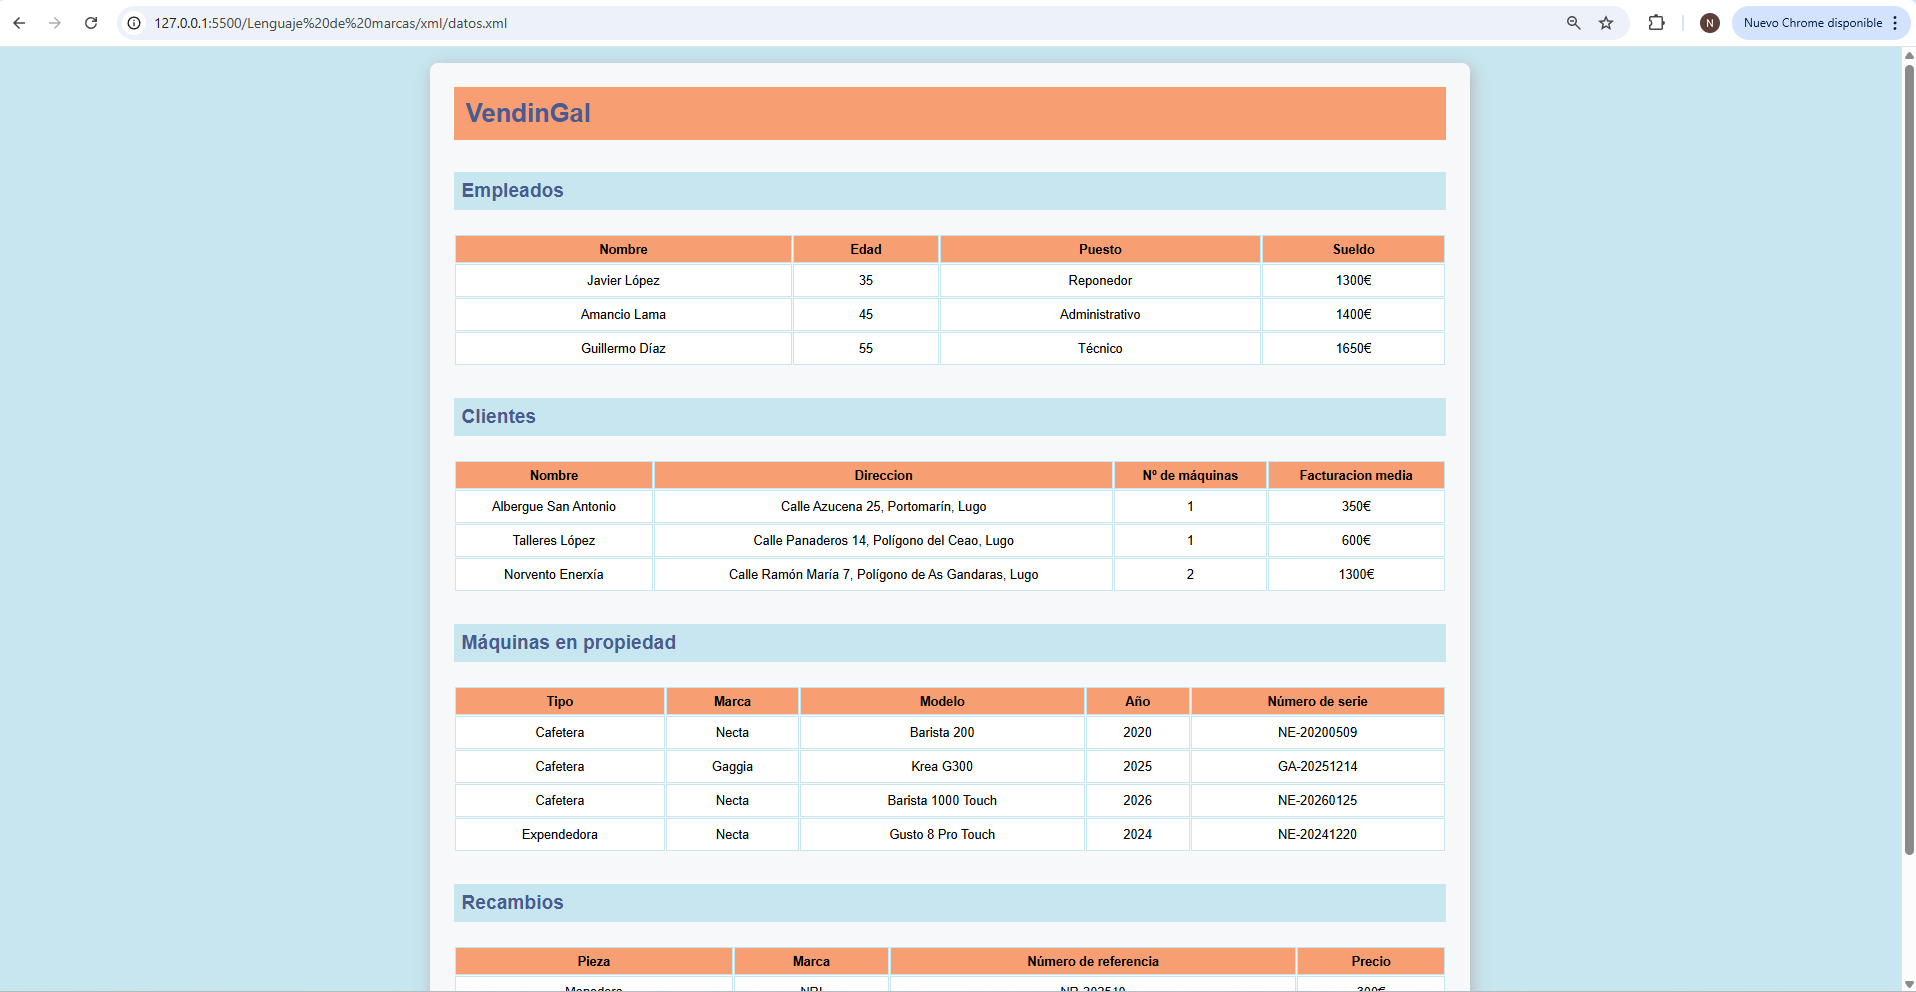
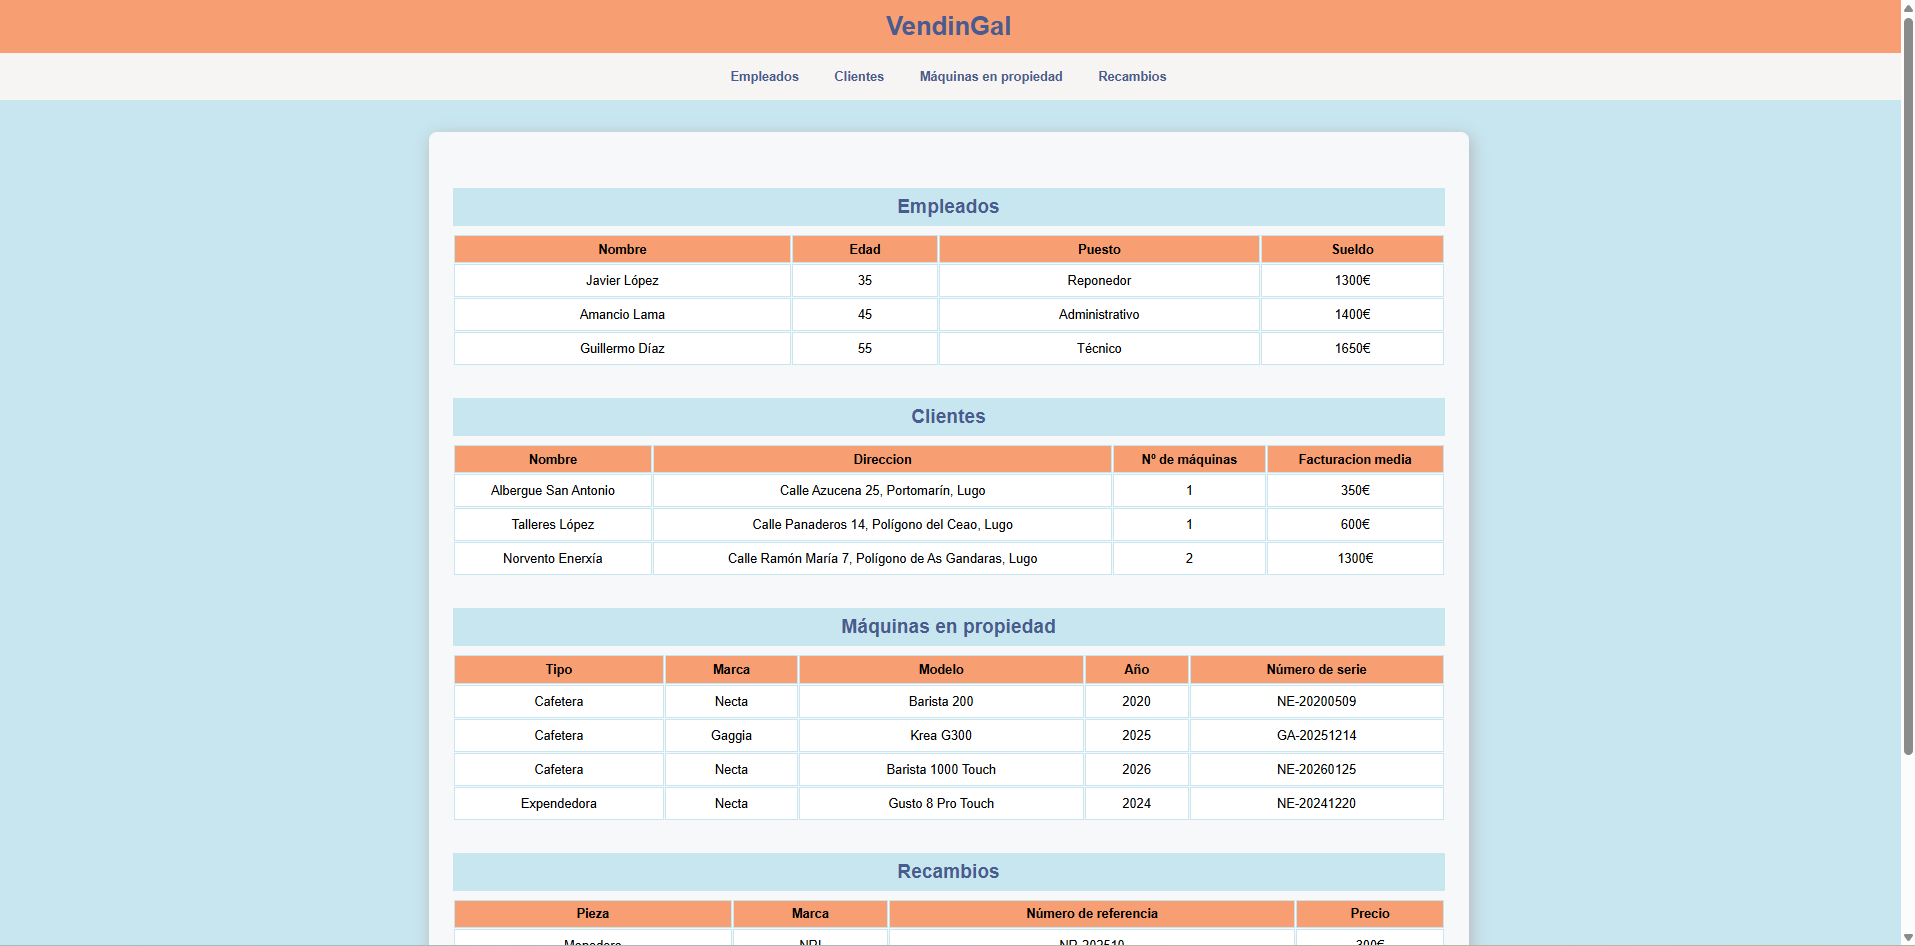
cambios en css y .md

diff --git a/Lenguaje de marcas/css/estilo.css b/Lenguaje de marcas/css/estilo.css
@@ -2,12 +2,18 @@
             * {
                 font-family: Arial, sans-serif;
                 box-sizing: border-box;
+                margin: 0;
+                padding: 0;
+            }
+
+            header {
+                margin: 0;
+                width: 100%;
             }
 
             body {
                 background-color: #C7E6F0;
                 margin: 0;
-                padding: 20px;
             }
 
             body > div {
@@ -24,7 +30,29 @@
                 color: #4A5B8F;
                 background-color: #F79F72;
                 padding: 15px;
-                margin-top: 0;
+                margin: 0;
+                text-align: center;
+            }
+
+            ul {
+                list-style-type: none;
+                padding: 0;
+                margin: 0;
+                text-align: center;
+                background-color: rgb(247, 244, 244);
+                margin-bottom: 40px;
+            }
+
+            li {
+                display: inline-block;
+            }
+
+            a {
+                display: block;
+                text-decoration: none;
+                padding: 20px;
+                color: #4A5B8F;
+                font-weight: bold;
             }
 
             h2 {
@@ -32,6 +60,7 @@
                 background-color: #C7E6F0;
                 margin-top: 40px;
                 padding: 10px;
+                text-align: center;
             }
             
             .tabla {
@@ -60,5 +89,14 @@
                 text-align: center;
                 padding: 7px;
                 border: 1px solid #C7E6F0;
+            }
+
+            footer {
+                background-color: #F79F72;
+                text-align: center;
+                color: #4A5B8F;
+                font-weight: bold;
+                padding: 30px;
+                margin-top: 40px;
             }
          

diff --git a/Lenguaje de marcas/docs/informe.md b/Lenguaje de marcas/docs/informe.md
@@ -1,0 +1,26 @@
+# Informe del proyecto: VendinGal
+
+## 1. Qué datos ver en el XML
+El archivo `datos.xml` contiene la estructura de datos de VendinGal:
+* Empleados: plantilla de trabajadores de la empresa (reponedor, administrativo y técnico).
+* Clientes: empresas donde están ubicadas las máquinas y se les presta servicio (talleres, albergues, empresas de energía).
+* Máquinas: parque de máquinas en propiedad (cafeteras y expendedoras).
+* Recambios: inventario de piezas de repuesto. (monederos, billeteros...).
+
+En el documento se usan identificadores únicos (`ID`) y referencias cruzadas (`IDREF`) para vincular qué máquinas en específico está vinculadas a cada cliente.
+
+## 2. Cómo se valida con el DTD
+La estructura de datos está controlada por el archivo `modelo.dtd`. La validación se ha realizado utilizando la opción de **Visual Studio Code** de Ver>Problemas (Ctrl+Mayús+M)  con la extensión **XML de Red Hat** instalada.
+Al abrir el archivo `datos.xml`, la extensión procesa la directiva `<!DOCTYPE VendinGal SYSTEM "modelo.dtd">` y valida el código en tiempo real. Si se incumple alguna regla como en la imagen `error_dtd.png` el editor marca la línea en rojo y explica el fallo en el panel "Problemas" que se abre en la parte inferior.
+
+## 3. Cómo ejecutar la transformación XSLT y visualizar el HTML.
+El archivo `datos.xml` se enlaza con la plantilla de transformación mediante `<?xml-stylesheet href="transform.xsl" type="text/xsl"?>`. Para ejecutarlo simplemente se abre el archivo XML en un navegador web, este procesa el XSLT de forma nativa para generar las tablas HTML y carga el diseño visual desde el archivo `/css/estilo.css`.
+
+## 4. Dónde ver la evidencia
+Dentro de `/docs/` se incluyen las evidencias gráficas:
+* `validacion_dtd.png`: demuestra que el XML cumple con el DTD (panel de problemas sin ninguno en VS Code).
+* `error_dtd.png`: evidencia que el DTD controla los errores perfectamente (captura de un error provocado al eliminar el `id` de `<empleado>`).
+* `transform_html.png`: muestra el documento XML renderizado como página web en el navegador, aplicando los estilos del CSS.
+
+## 5. Integración con el proyecto
+Este trabajo sirve para crear un panel de control web para la empresa **VendinGal**. En el día a día ni los empleados ni el gerente deberían estar usando el código directamente, para evitar eso este sistema crea una interfaz amigable a partir de los datos del archivo `datos.xml` en la que gracias al diseño creado con XSLT y CSS se puede consultar de forma rápida y fácil el inventario.
